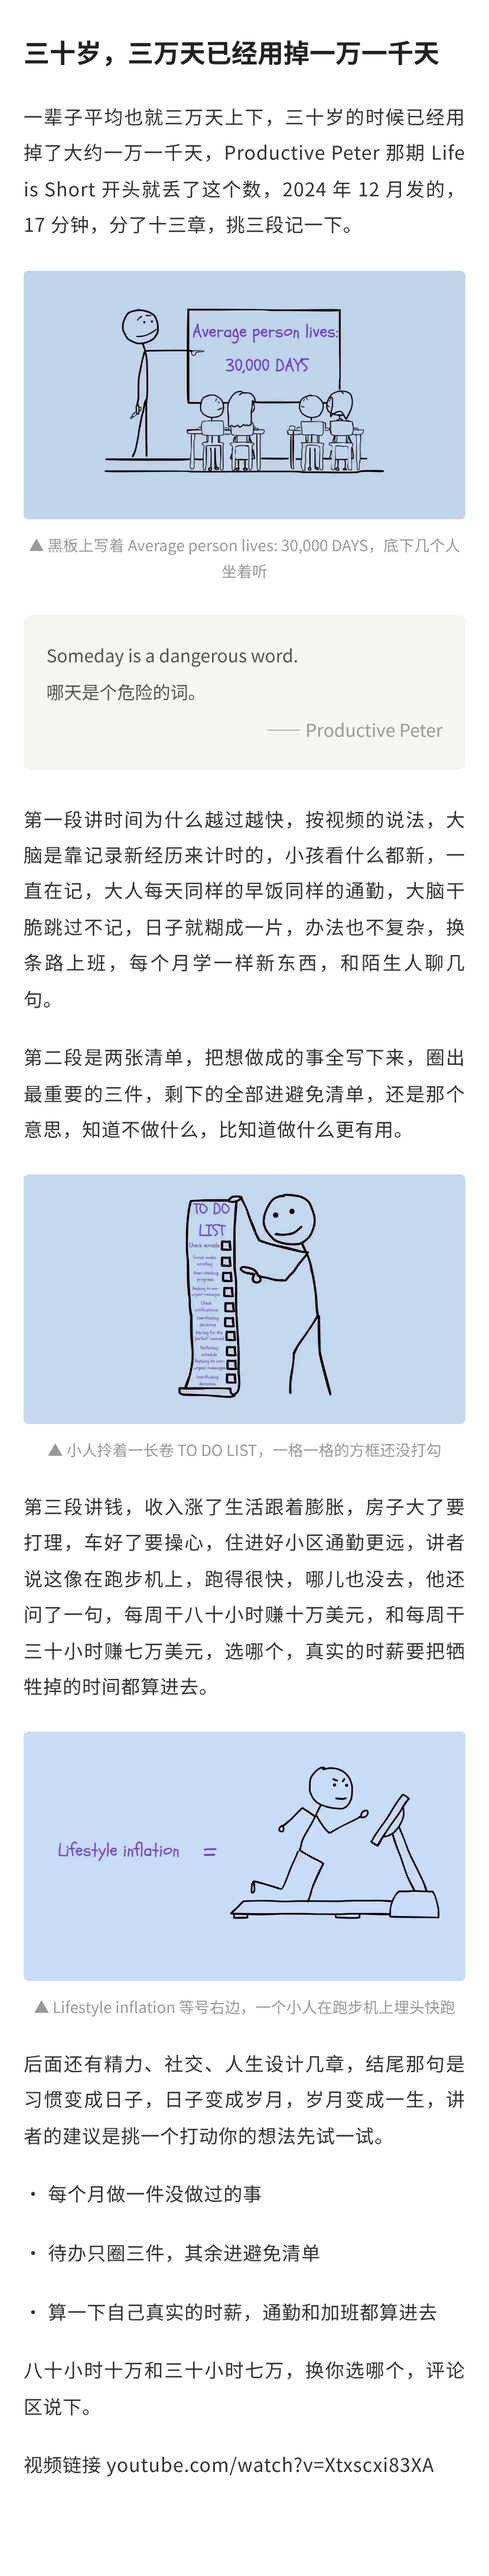
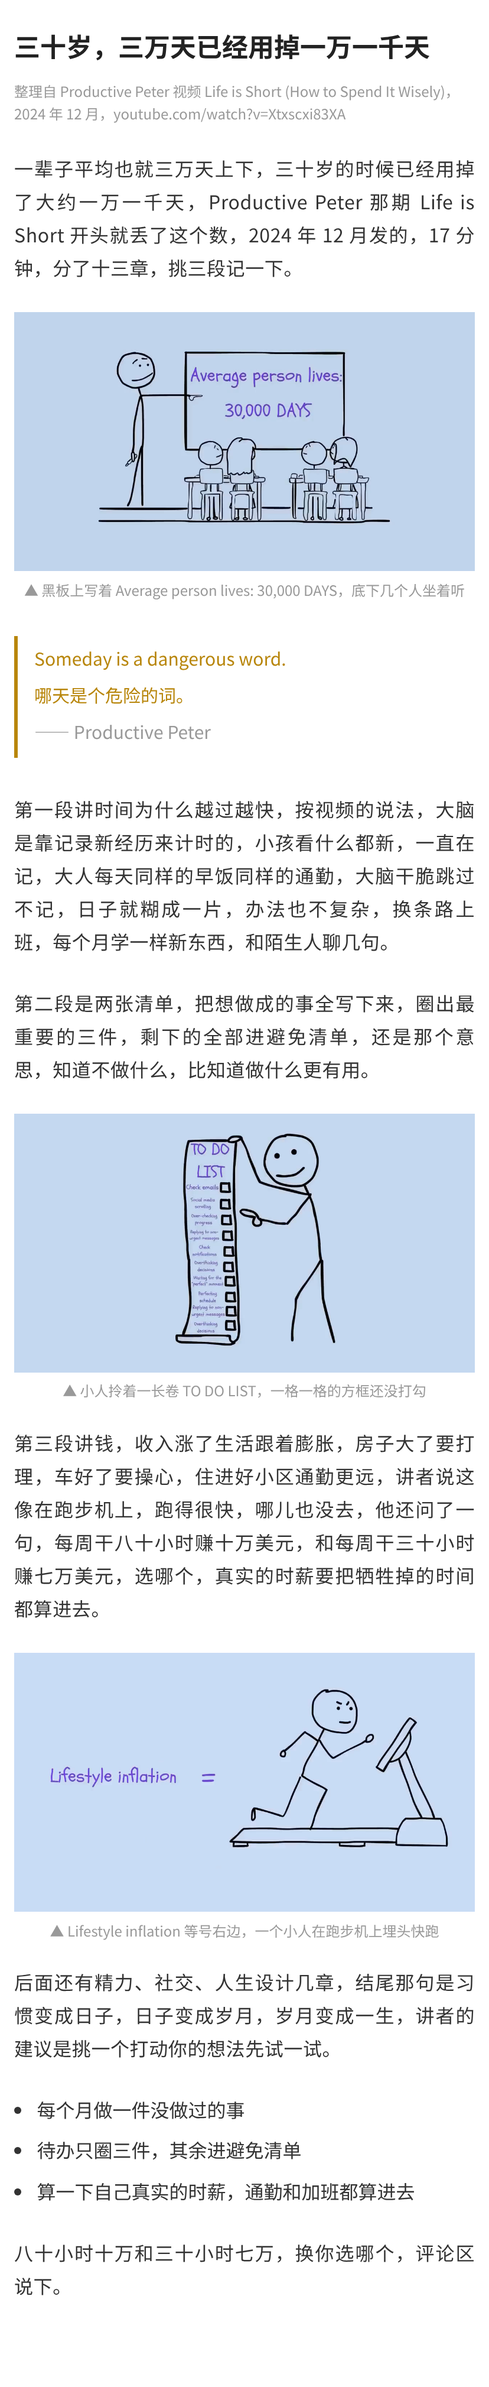
article render: layout spec (16px/1.75/#333, 12px padding, single accent, left-border quotes, full-width imgs, source line, cover.jpg); lint: title<=20, <=2 quotes, no 点赞在看; README

diff --git a/core/article/examples/life-is-short/article.html b/core/article/examples/life-is-short/article.html
@@ -1,21 +1,19 @@
 <!doctype html><html lang="zh"><head><meta charset="utf-8"><meta name="viewport" content="width=device-width,initial-scale=1"><meta name="robots" content="noindex"><title>三十岁，三万天已经用掉一万一千天</title></head>
-<body style="margin:0;background:#ededed"><div style="max-width:640px;margin:0 auto;background:#fff;padding:28px 20px 60px;font-family:-apple-system,BlinkMacSystemFont,'PingFang SC','Microsoft YaHei',sans-serif">
+<body style="margin:0;background:#ededed"><div style="max-width:640px;margin:0 auto;background:#fff;padding:24px 12px 48px;font-family:-apple-system,BlinkMacSystemFont,'PingFang SC','Microsoft YaHei',sans-serif">
 <!-- 复制下面 section 内容粘贴到公众号编辑器 -->
-<section id="wx"><h1 style="font-size:22px;line-height:1.5;color:#222;margin:0 0 1em">三十岁，三万天已经用掉一万一千天</h1>
-<p style="margin:0 0 1.2em;font-size:16px;line-height:1.9;color:#333;letter-spacing:0.5px;text-align:justify">一辈子平均也就三万天上下，三十岁的时候已经用掉了大约一万一千天，Productive Peter 那期 Life is Short 开头就丢了这个数，2024 年 12 月发的，17 分钟，分了十三章，挑三段记一下。</p>
-<p style="margin:1.5em 0 0.4em;text-align:center"><img src="img/01_30000days.jpg" alt="" style="max-width:100%;border-radius:4px"></p>
-<p style="margin:0 0 1.6em;font-size:13px;line-height:1.7;color:#999;text-align:center">▲ 黑板上写着 Average person lives: 30,000 DAYS，底下几个人坐着听</p>
-<section style="margin:1.6em 0;padding:1em 1.2em;background:#f7f5f0;border-radius:6px"><p style="margin:0.3em 0;font-size:15px;line-height:1.8;color:#555">Someday is a dangerous word.</p><p style="margin:0.3em 0;font-size:15px;line-height:1.8;color:#555">哪天是个危险的词。</p><p style="margin:0.3em 0;font-size:15px;line-height:1.8;color:#999;text-align:right">—— Productive Peter</p></section>
-<p style="margin:0 0 1.2em;font-size:16px;line-height:1.9;color:#333;letter-spacing:0.5px;text-align:justify">第一段讲时间为什么越过越快，按视频的说法，大脑是靠记录新经历来计时的，小孩看什么都新，一直在记，大人每天同样的早饭同样的通勤，大脑干脆跳过不记，日子就糊成一片，办法也不复杂，换条路上班，每个月学一样新东西，和陌生人聊几句。</p>
-<p style="margin:0 0 1.2em;font-size:16px;line-height:1.9;color:#333;letter-spacing:0.5px;text-align:justify">第二段是两张清单，把想做成的事全写下来，圈出最重要的三件，剩下的全部进避免清单，还是那个意思，知道不做什么，比知道做什么更有用。</p>
-<p style="margin:1.5em 0 0.4em;text-align:center"><img src="img/02_todo-list.jpg" alt="" style="max-width:100%;border-radius:4px"></p>
-<p style="margin:0 0 1.6em;font-size:13px;line-height:1.7;color:#999;text-align:center">▲ 小人拎着一长卷 TO DO LIST，一格一格的方框还没打勾</p>
-<p style="margin:0 0 1.2em;font-size:16px;line-height:1.9;color:#333;letter-spacing:0.5px;text-align:justify">第三段讲钱，收入涨了生活跟着膨胀，房子大了要打理，车好了要操心，住进好小区通勤更远，讲者说这像在跑步机上，跑得很快，哪儿也没去，他还问了一句，每周干八十小时赚十万美元，和每周干三十小时赚七万美元，选哪个，真实的时薪要把牺牲掉的时间都算进去。</p>
-<p style="margin:1.5em 0 0.4em;text-align:center"><img src="img/04_treadmill.jpg" alt="" style="max-width:100%;border-radius:4px"></p>
-<p style="margin:0 0 1.6em;font-size:13px;line-height:1.7;color:#999;text-align:center">▲ Lifestyle inflation 等号右边，一个小人在跑步机上埋头快跑</p>
-<p style="margin:0 0 1.2em;font-size:16px;line-height:1.9;color:#333;letter-spacing:0.5px;text-align:justify">后面还有精力、社交、人生设计几章，结尾那句是习惯变成日子，日子变成岁月，岁月变成一生，讲者的建议是挑一个打动你的想法先试一试。</p>
-<p style="margin:0 0 1.2em;font-size:16px;line-height:1.9;color:#333;letter-spacing:0.5px;text-align:justify;padding-left:1em;text-indent:-1em">· 每个月做一件没做过的事</p>
-<p style="margin:0 0 1.2em;font-size:16px;line-height:1.9;color:#333;letter-spacing:0.5px;text-align:justify;padding-left:1em;text-indent:-1em">· 待办只圈三件，其余进避免清单</p>
-<p style="margin:0 0 1.2em;font-size:16px;line-height:1.9;color:#333;letter-spacing:0.5px;text-align:justify;padding-left:1em;text-indent:-1em">· 算一下自己真实的时薪，通勤和加班都算进去</p>
-<p style="margin:0 0 1.2em;font-size:16px;line-height:1.9;color:#333;letter-spacing:0.5px;text-align:justify">八十小时十万和三十小时七万，换你选哪个，评论区说下。</p>
-<p style="margin:0 0 1.2em;font-size:16px;line-height:1.9;color:#333;letter-spacing:0.5px;text-align:justify">视频链接 youtube.com/watch?v=Xtxscxi83XA</p></section></div></body></html>
+<section id="wx"><h1 style="font-size:22px;line-height:1.4;color:#222;margin:0 0 0.6em">三十岁，三万天已经用掉一万一千天</h1>
+<p style="margin:0 0 1.8em;font-size:12px;line-height:1.6;color:#999">整理自 Productive Peter 视频 Life is Short (How to Spend It Wisely)，2024 年 12 月，youtube.com/watch?v=Xtxscxi83XA</p>
+<p style="margin:0 0 1.5em;font-size:16px;line-height:1.75;color:#333;letter-spacing:0.3px;text-align:justify">一辈子平均也就三万天上下，三十岁的时候已经用掉了大约一万一千天，Productive Peter 那期 Life is Short 开头就丢了这个数，2024 年 12 月发的，17 分钟，分了十三章，挑三段记一下。</p>
+<p style="margin:1.5em 0 0.4em"><img src="img/01_30000days.jpg" alt="" style="display:block;width:100%;height:auto"></p>
+<p style="margin:0 0 1.6em;font-size:12px;line-height:1.6;color:#999;text-align:center">▲ 黑板上写着 Average person lives: 30,000 DAYS，底下几个人坐着听</p>
+<blockquote style="margin:1.8em 0;padding:0.2em 0 0.2em 14px;border-left:3px solid #b8860b"><p style="margin:0.3em 0;font-size:15px;line-height:1.75;color:#b8860b">Someday is a dangerous word.</p><p style="margin:0.3em 0;font-size:15px;line-height:1.75;color:#b8860b">哪天是个危险的词。</p><p style="margin:0.3em 0;font-size:15px;line-height:1.75;color:#999">—— Productive Peter</p></blockquote>
+<p style="margin:0 0 1.5em;font-size:16px;line-height:1.75;color:#333;letter-spacing:0.3px;text-align:justify">第一段讲时间为什么越过越快，按视频的说法，大脑是靠记录新经历来计时的，小孩看什么都新，一直在记，大人每天同样的早饭同样的通勤，大脑干脆跳过不记，日子就糊成一片，办法也不复杂，换条路上班，每个月学一样新东西，和陌生人聊几句。</p>
+<p style="margin:0 0 1.5em;font-size:16px;line-height:1.75;color:#333;letter-spacing:0.3px;text-align:justify">第二段是两张清单，把想做成的事全写下来，圈出最重要的三件，剩下的全部进避免清单，还是那个意思，知道不做什么，比知道做什么更有用。</p>
+<p style="margin:1.5em 0 0.4em"><img src="img/02_todo-list.jpg" alt="" style="display:block;width:100%;height:auto"></p>
+<p style="margin:0 0 1.6em;font-size:12px;line-height:1.6;color:#999;text-align:center">▲ 小人拎着一长卷 TO DO LIST，一格一格的方框还没打勾</p>
+<p style="margin:0 0 1.5em;font-size:16px;line-height:1.75;color:#333;letter-spacing:0.3px;text-align:justify">第三段讲钱，收入涨了生活跟着膨胀，房子大了要打理，车好了要操心，住进好小区通勤更远，讲者说这像在跑步机上，跑得很快，哪儿也没去，他还问了一句，每周干八十小时赚十万美元，和每周干三十小时赚七万美元，选哪个，真实的时薪要把牺牲掉的时间都算进去。</p>
+<p style="margin:1.5em 0 0.4em"><img src="img/04_treadmill.jpg" alt="" style="display:block;width:100%;height:auto"></p>
+<p style="margin:0 0 1.6em;font-size:12px;line-height:1.6;color:#999;text-align:center">▲ Lifestyle inflation 等号右边，一个小人在跑步机上埋头快跑</p>
+<p style="margin:0 0 1.5em;font-size:16px;line-height:1.75;color:#333;letter-spacing:0.3px;text-align:justify">后面还有精力、社交、人生设计几章，结尾那句是习惯变成日子，日子变成岁月，岁月变成一生，讲者的建议是挑一个打动你的想法先试一试。</p>
+<ul style="margin:0 0 1.5em;padding-left:1.2em;font-size:16px;line-height:1.75;color:#333"><li style="margin:0.4em 0">每个月做一件没做过的事</li><li style="margin:0.4em 0">待办只圈三件，其余进避免清单</li><li style="margin:0.4em 0">算一下自己真实的时薪，通勤和加班都算进去</li></ul>
+<p style="margin:0 0 1.5em;font-size:16px;line-height:1.75;color:#333;letter-spacing:0.3px;text-align:justify">八十小时十万和三十小时七万，换你选哪个，评论区说下。</p></section></div></body></html>

diff --git a/core/article/render.py b/core/article/render.py
@@ -3,26 +3,36 @@ python3 core/article/render.py <run>/article/article.md
 约定：# 标题；> 引用=金句（下一行 —— 讲者）；图片下一行以 ▲ 开头=图注；## 小标题。"""
 import sys, re, html, os
 md = open(sys.argv[1]).read().strip().split('\n'); out = []; title = ''
-P = 'margin:0 0 1.2em;font-size:16px;line-height:1.9;color:#333;letter-spacing:0.5px;text-align:justify'
+ACC = '#b8860b'  # 唯一强调色：只给小标题和金句
+P = 'margin:0 0 1.5em;font-size:16px;line-height:1.75;color:#333;letter-spacing:0.3px;text-align:justify'
 def inl(s): return re.sub(r'\*\*(.+?)\*\*', r'<strong style="color:#222">\1</strong>', html.escape(s))
 i = 0
 while i < len(md):
     l = md[i].rstrip()
-    if l.startswith('# '): title = l[2:]; out.append(f'<h1 style="font-size:22px;line-height:1.5;color:#222;margin:0 0 1em">{inl(title)}</h1>')
-    elif l.startswith('## '): out.append(f'<h2 style="font-size:18px;color:#222;margin:2em 0 1em;padding-left:10px;border-left:4px solid #c9a46c">{inl(l[3:])}</h2>')
-    elif m := re.match(r'!\[(.*?)\]\((.+?)\)', l): out.append(f'<p style="margin:1.5em 0 0.4em;text-align:center"><img src="{m[2]}" alt="{html.escape(m[1])}" style="max-width:100%;border-radius:4px"></p>')
-    elif l.startswith('▲'): out.append(f'<p style="margin:0 0 1.6em;font-size:13px;line-height:1.7;color:#999;text-align:center">{inl(l)}</p>')
+    if l.startswith('# '): title = l[2:]; out.append(f'<h1 style="font-size:22px;line-height:1.4;color:#222;margin:0 0 0.6em">{inl(title)}</h1>')
+    elif l.startswith('## '): out.append(f'<h2 style="font-size:18px;color:#222;margin:2em 0 1em;padding-left:10px;border-left:3px solid '+ACC+'">{inl(l[3:])}</h2>')
+    elif m := re.match(r'!\[(.*?)\]\((.+?)\)', l): out.append(f'<p style="margin:1.5em 0 0.4em"><img src="{m[2]}" alt="{html.escape(m[1])}" style="display:block;width:100%;height:auto"></p>')
+    elif l.startswith('^^'): out.append(f'<p style="margin:0 0 1.8em;font-size:12px;line-height:1.6;color:#999">{inl(l[2:].strip())}</p>')
+    elif l.startswith('▲'): out.append(f'<p style="margin:0 0 1.6em;font-size:12px;line-height:1.6;color:#999;text-align:center">{inl(l)}</p>')
     elif l.startswith('>'):
         q = []
         while i < len(md) and md[i].startswith('>'): q.append(inl(md[i].lstrip('> ').strip())); i += 1
-        out.append('<section style="margin:1.6em 0;padding:1em 1.2em;background:#f7f5f0;border-radius:6px">' + ''.join(
-            f'<p style="margin:0.3em 0;font-size:15px;line-height:1.8;color:{"#999;text-align:right" if x.startswith("——") else "#555"}">{x}</p>' for x in q) + '</section>'); continue
-    elif l.startswith('- '): out.append(f'<p style="{P};padding-left:1em;text-indent:-1em">· {inl(l[2:])}</p>')
+        out.append('<blockquote style="margin:1.8em 0;padding:0.2em 0 0.2em 14px;border-left:3px solid '+ACC+'">' + ''.join(
+            f'<p style="margin:0.3em 0;font-size:15px;line-height:1.75;color:{"#999" if x.startswith("——") else ACC}">{x}</p>' for x in q) + '</blockquote>'); continue
+    elif l.startswith('- '):
+        it = []
+        while i < len(md) and md[i].startswith('- '): it.append(f'<li style="margin:0.4em 0">{inl(md[i][2:])}</li>'); i += 1
+        out.append(f'<ul style="margin:0 0 1.5em;padding-left:1.2em;font-size:16px;line-height:1.75;color:#333">' + ''.join(it) + '</ul>'); continue
+    elif l.startswith('<!--'): pass
     elif l.strip(): out.append(f'<p style="{P}">{inl(l)}</p>')
     i += 1
 body = '\n'.join(out)
+import shutil
+src = open(sys.argv[1]).read(); cm = re.search(r'<!--\s*cover:\s*(\S+)\s*-->', src) or re.search(r'!\[[^]]*\]\((\S+?)\)', src)
+d = os.path.dirname(os.path.abspath(sys.argv[1]))
+if cm: shutil.copy(os.path.join(d, cm[1]), os.path.join(d, 'cover.jpg')); print('cover', cm[1])
 doc = f'''<!doctype html><html lang="zh"><head><meta charset="utf-8"><meta name="viewport" content="width=device-width,initial-scale=1"><meta name="robots" content="noindex"><title>{html.escape(title)}</title></head>
-<body style="margin:0;background:#ededed"><div style="max-width:640px;margin:0 auto;background:#fff;padding:28px 20px 60px;font-family:-apple-system,BlinkMacSystemFont,'PingFang SC','Microsoft YaHei',sans-serif">
+<body style="margin:0;background:#ededed"><div style="max-width:640px;margin:0 auto;background:#fff;padding:24px 12px 48px;font-family:-apple-system,BlinkMacSystemFont,'PingFang SC','Microsoft YaHei',sans-serif">
 <!-- 复制下面 section 内容粘贴到公众号编辑器 -->
 <section id="wx">{body}</section></div></body></html>'''
 open(os.path.join(os.path.dirname(sys.argv[1]), 'article.html'), 'w').write(doc); print('ok', len(out), 'blocks')

diff --git a/core/article/lint.py b/core/article/lint.py
@@ -13,5 +13,10 @@ if not lo <= cn <= hi: bad += 1; print(f'LENGTH 汉字 {cn}，要求 {lo}–{hi}
 ni = len(re.findall(r'!\[', t)); nl = len(re.findall(r'^- ', t, re.M))
 if not 2 <= ni <= 3: bad += 1; print(f'IMAGES {ni}，要求 2–3')
 if nl > 4: bad += 1; print(f'LIST {nl} 条，最多 4')
+tm = re.search(r'^# (.+)$', t, re.M); tl = len(tm[1].strip()) if tm else 0
+if not tm or tl > 20: bad += 1; print(f'TITLE {tl} 字，最多 20')
+if re.search(r'点赞|在看|关注我|转发', body): bad += 1; print('含点赞/在看/关注引导')
+nq = len(re.findall(r'^——|^> ——', t, re.M))
+if nq > 2: bad += 1; print(f'QUOTES {nq}，最多 2')
 print(f'OK 汉字 {cn}，禁用词/格式问题 {bad} 处' if not bad else f'FAIL {bad} 处，汉字 {cn}')
 sys.exit(1 if bad else 0)

diff --git a/core/article/README.md b/core/article/README.md
@@ -1,0 +1,12 @@
+# 视频 → 公众号文章（不发布）
+
+基于 vendor/oil-video-article（MIT，oil-oil）的流程；写作规则见 /workspace/style/no-ai-style.md（第〇/〇.5 节我的口吻优先，第八、九节运营与篇幅）。
+
+1. `tools/video2article.sh prep <url|file> <slug>` → /workspace/article-runs/<slug>/：video.mp4、transcript.srt/txt（有字幕用字幕，否则 faster-whisper）、scenes.json（PySceneDetect；镜头少的动画视频退化为定时取样）、contact.jpg 联系表
+2. Agent 读 transcript.txt + contact.jpg，写 article/article.md。事实只来自字幕和画面，不编我的经历和感受
+3. `tools/video2article.sh frames <slug> name@秒 ...` → article/img/，然后逐张打开核对（强制）
+4. `tools/video2article.sh build <slug>` → lint（禁用词、500–800 字、2–3 图、清单≤4、标题≤20 字、金句≤2、无点赞在看）+ article.html（内联样式，可粘贴公众号）+ cover.jpg + 预览 ops.danghb.cn/fun/demo/article-<slug>/（OPS 登录）
+
+md 约定：`# 标题`；`^^ 来源行`（标题下小灰字）；`<!-- cover: img/x.jpg -->`（封面，缺省取第一张图）；`## 小标题`；`![](img/x.jpg)` 下一行 `▲ 图注`；`>` 金句（原文/中文/—— 讲者）；`- ` 结尾清单；最后一行轻互动。
+排版：正文 16px / 行高 1.75 / #333，两侧 12px，段间空一行，唯一强调色 #b8860b 只给小标题和金句左边框，图片通栏，图注 12px 灰。
+依赖：ffmpeg、yt-dlp、faster-whisper、scenedetect、opencv（pip --user）。YouTube 需 node 作 JS runtime，优先 h264（av1 opencv 读不了）。

diff --git a/core/article/examples/life-is-short/article.md b/core/article/examples/life-is-short/article.md
@@ -1,5 +1,8 @@
 # 三十岁，三万天已经用掉一万一千天
 
+^^ 整理自 Productive Peter 视频 Life is Short (How to Spend It Wisely)，2024 年 12 月，youtube.com/watch?v=Xtxscxi83XA
+<!-- cover: img/04_treadmill.jpg -->
+
 一辈子平均也就三万天上下，三十岁的时候已经用掉了大约一万一千天，Productive Peter 那期 Life is Short 开头就丢了这个数，2024 年 12 月发的，17 分钟，分了十三章，挑三段记一下。
 
 ![](img/01_30000days.jpg)
@@ -29,4 +32,3 @@
 
 八十小时十万和三十小时七万，换你选哪个，评论区说下。
 
-视频链接 youtube.com/watch?v=Xtxscxi83XA
